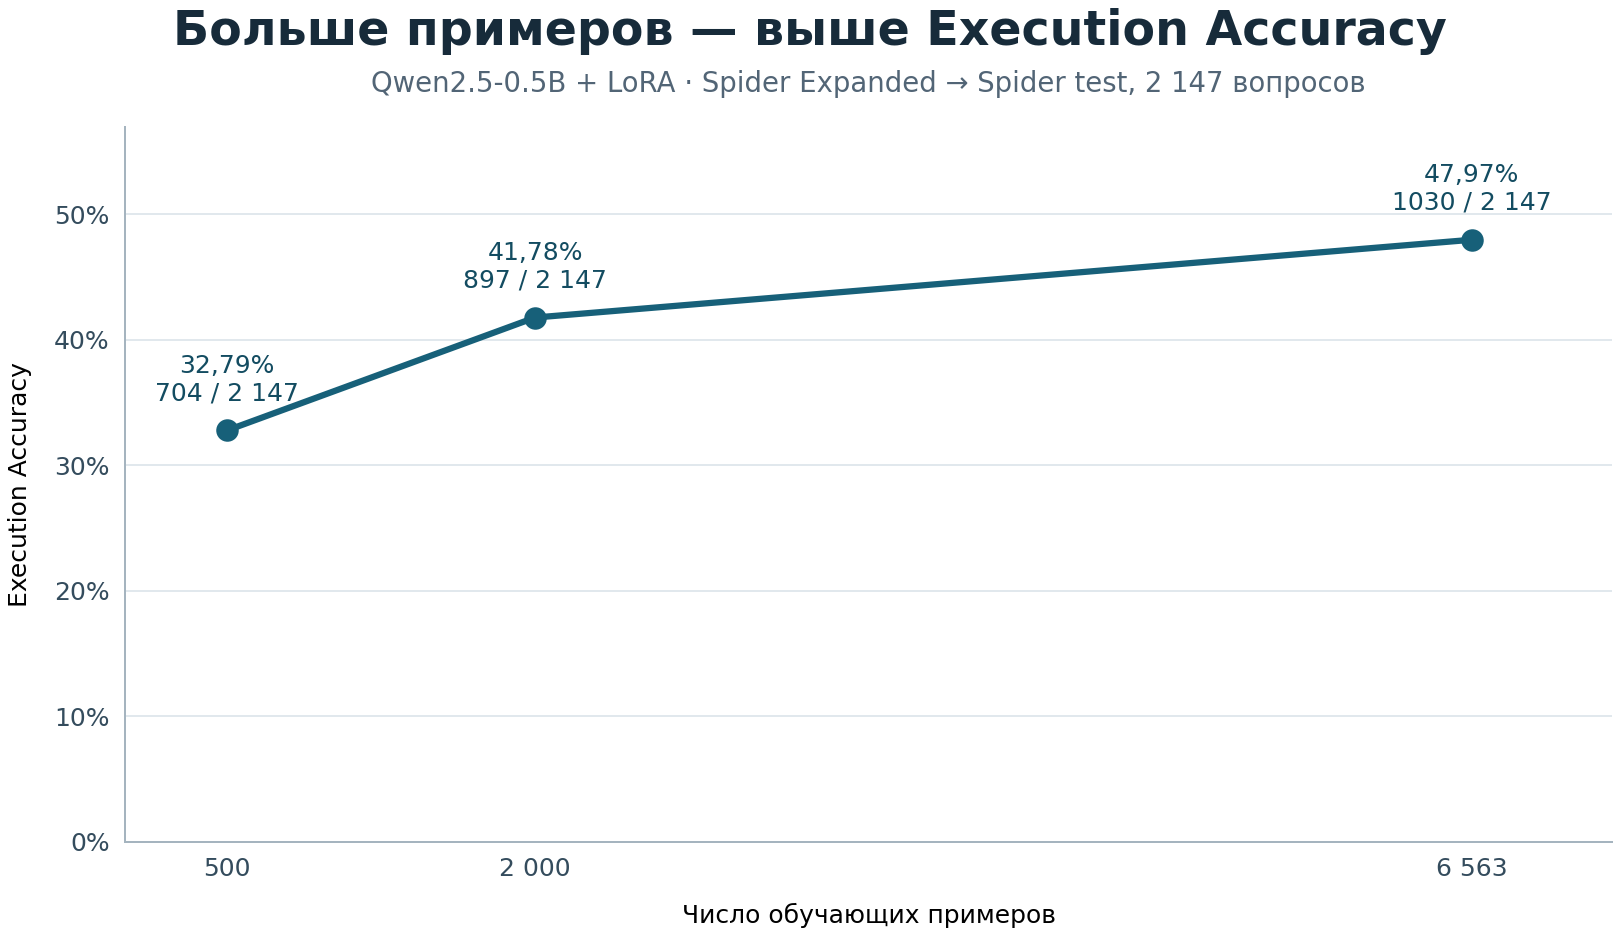
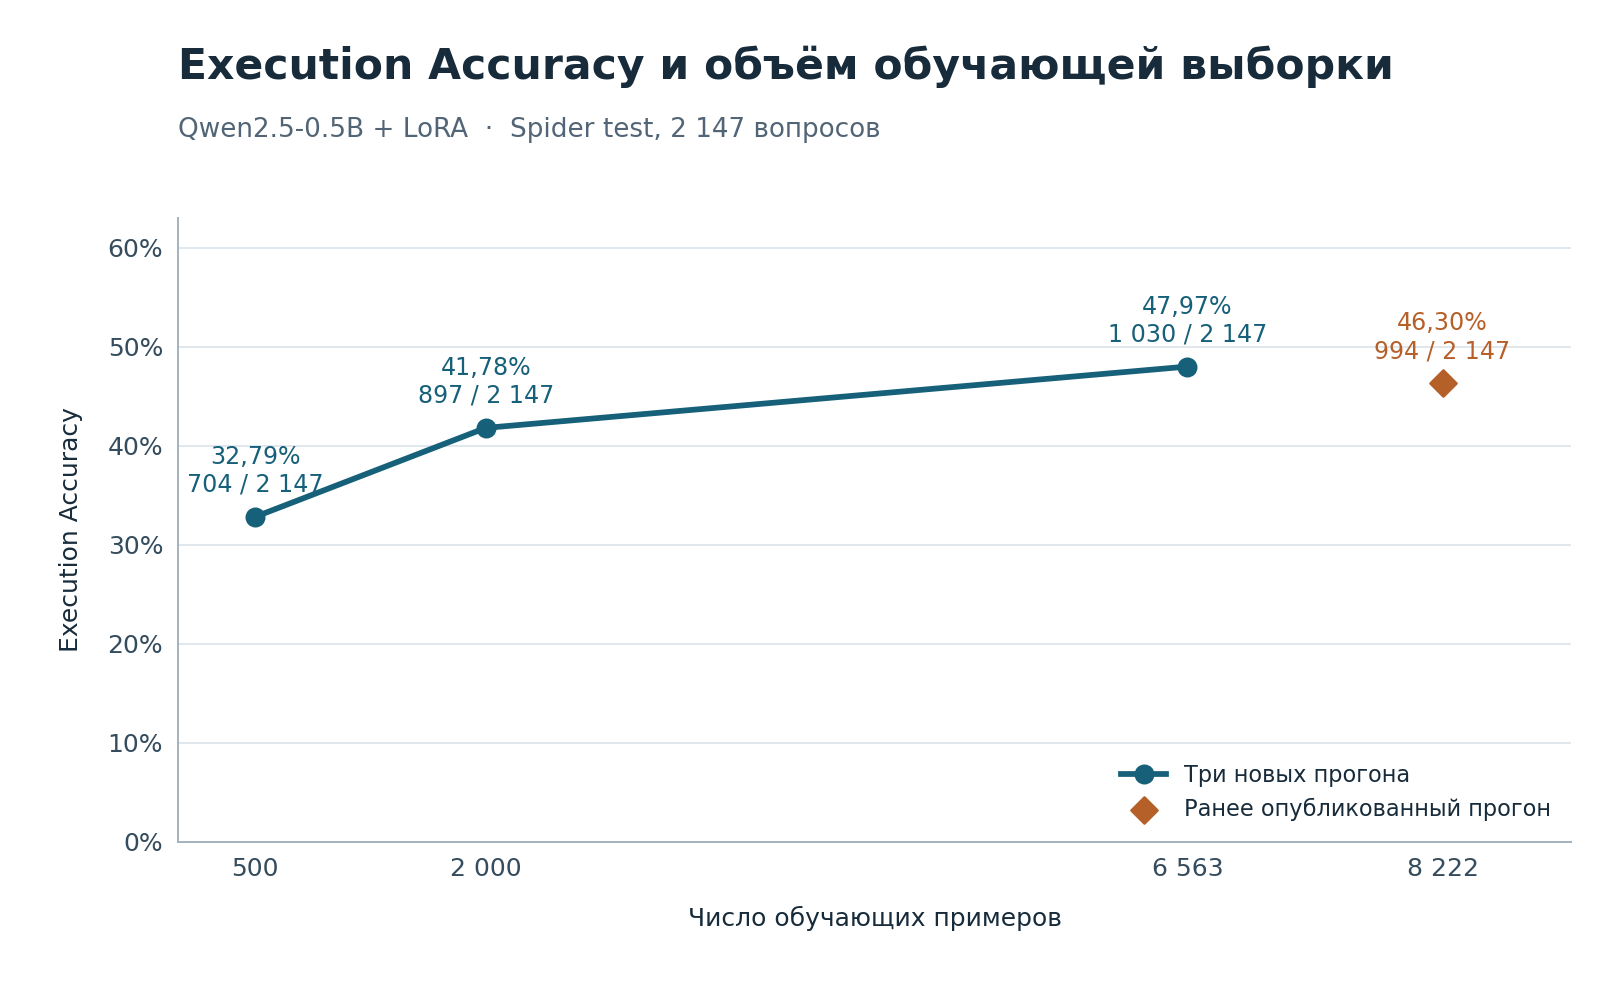
Add historical full-set result to Spider train-size comparison

diff --git a/results/spider_train_size/README.md b/results/spider_train_size/README.md
@@ -32,11 +32,30 @@
 | 2 000 | 897 / 2 147 | 41,78% |
 | 6 563 | 1 030 / 2 147 | 47,97% |
 
-![Execution Accuracy по объёму обучающих данных](spider_execution_accuracy_by_train_size.png)
-
 При увеличении выборки с 500 до 6 563 примеров Execution Accuracy выросла
 на 15,18 п. п., или на 326 верных результатов. При фиксированных двух эпохах
 вместе с объёмом данных росло число шагов обучения. Эксперимент проведён
 с одним seed.
 
 Полные метрики доступны в `comparison.csv` и `*_eval_metrics.json`.
+
+## Справочный результат для полного expanded train
+
+| Источник результата | Примеров в train | Верных результатов SQL | Execution Accuracy |
+|---|---:|---:|---:|
+| [Ранее опубликованный прогон команды](https://github.com/Pavel-V418/BaseModel-vs-SFT/blob/1bf6018f71a58551ca6f66077c7a1839a68f1f88/results/spider_test/sft_0.5b_expanded_zero_eval_metrics.json) | 8 222 | 994 / 2 147 | 46,30% |
+
+Сверили идентификаторы вопросов, их порядок, тексты и эталонный SQL
+в сохранённых предсказаниях. У справочного прогона те же 2 147 вопросов
+Spider test и оценщик v3. На графике это отдельная точка. В `comparison.csv` и
+`*_eval_metrics.json` сохранены результаты трёх новых запусков.
+
+В справочном прогоне верно решено на 36 вопросов меньше, чем при 6 563
+обучающих примерах (−1,68 п. п. по точным долям). У справочного прогона было
+[50 шагов разогрева и валидация каждые 100 шагов](https://github.com/Pavel-V418/BaseModel-vs-SFT/blob/05d54db627d95832ec3c8295e32b993712aee1d9/results/sft_0.5b_nfull_others_r16_lr1e-4_s42_2ep_train.json),
+а в новой серии интервалы заданы долями от общего числа шагов. Побайтовое
+совпадение исторического обучающего файла с восстановленным набором
+не подтверждено. Поэтому это сравнение двух наблюдаемых результатов, и по
+нему нельзя оценить эффект одного лишь увеличения выборки.
+
+![Execution Accuracy по объёму обучающих данных](spider_execution_accuracy_by_train_size.png)
